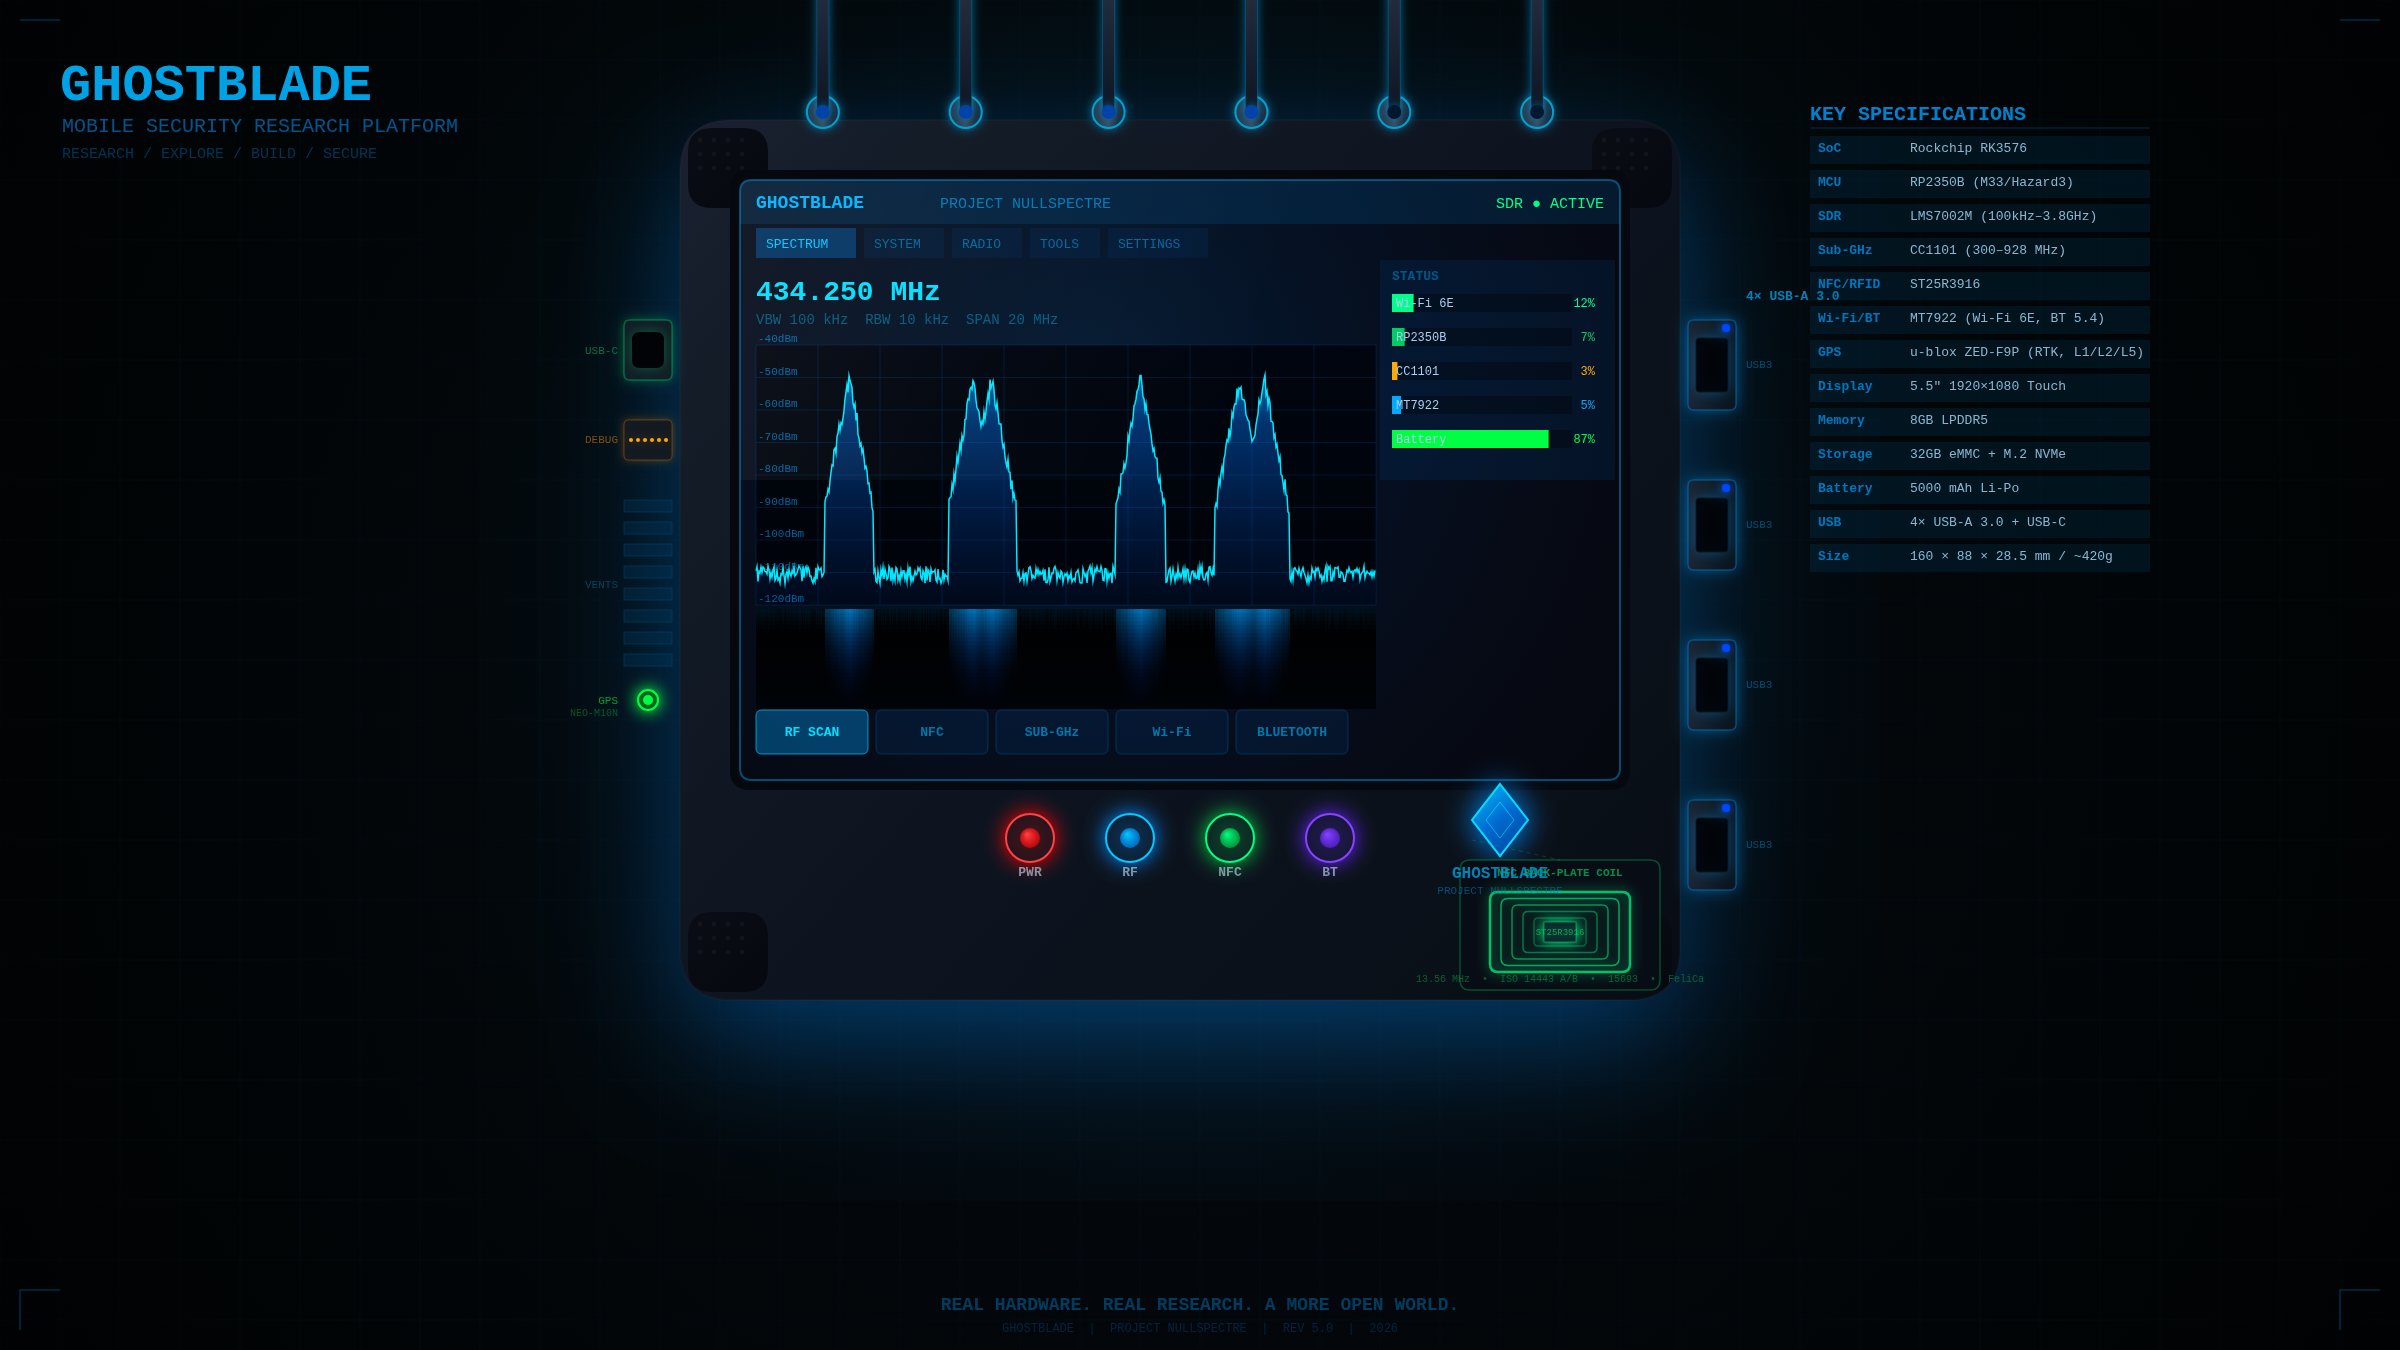
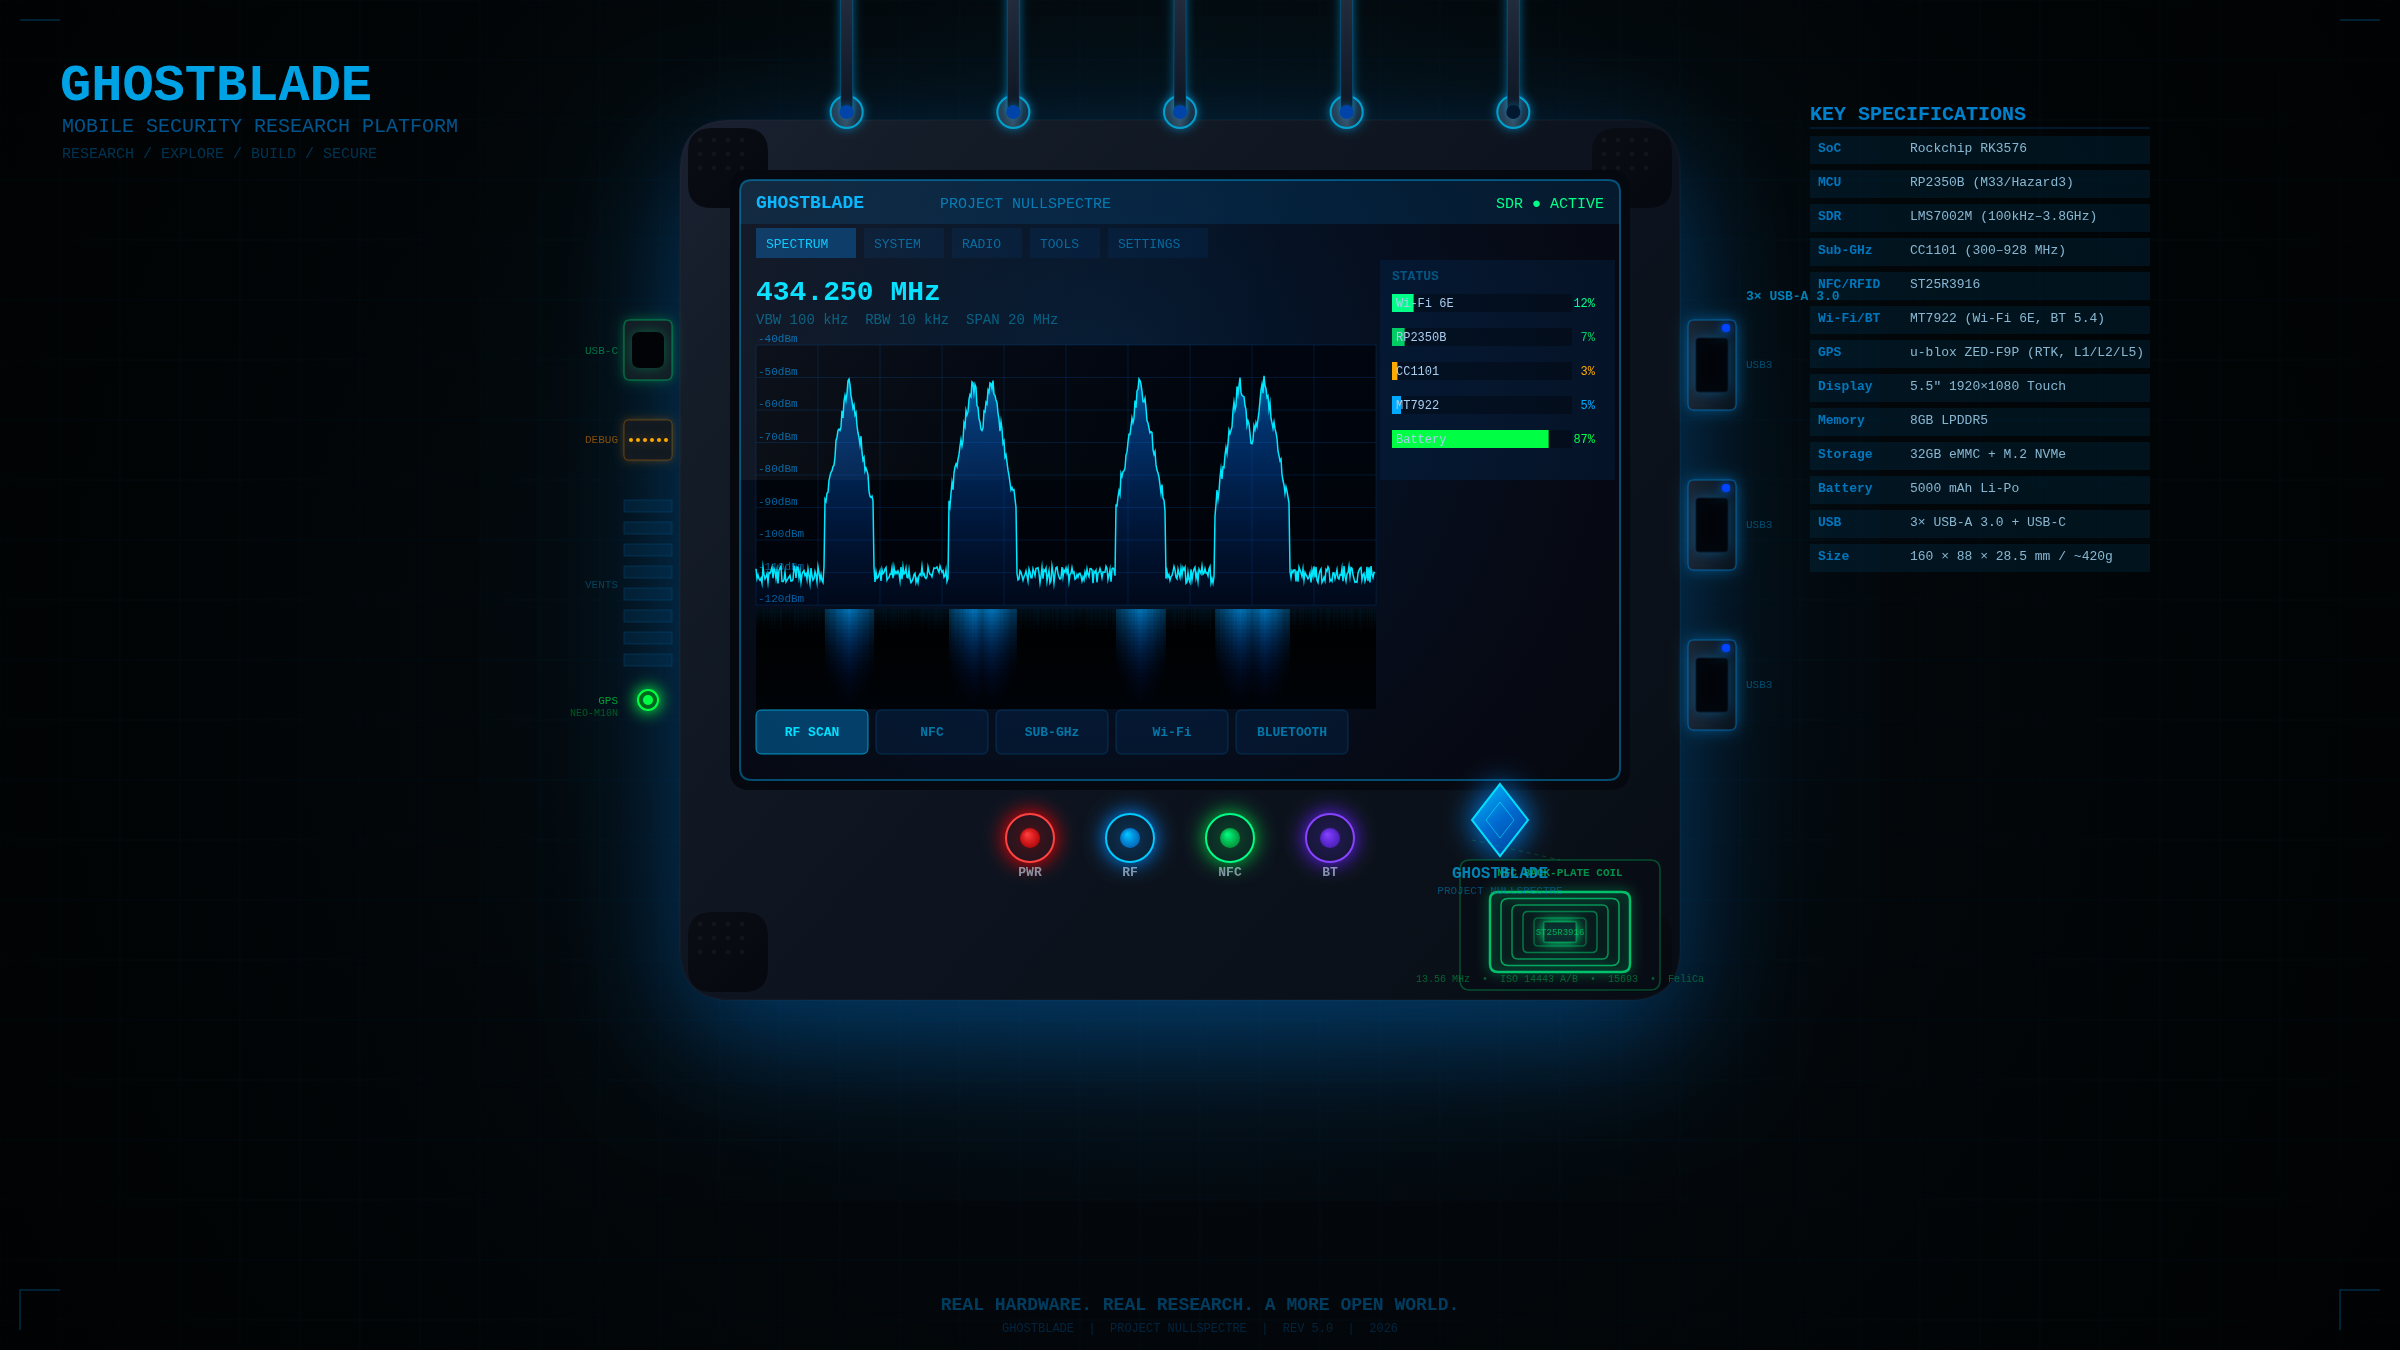
feat: 3x USB-A, full capabilities section, ChatGPT concept art spec
- Reduce USB-A from 4x to 3x throughout README and concept art
- Add 'What Can It Do?' section covering all hardware capabilities:
  SDR, Sub-GHz, NFC/RFID, Wi-Fi 6E/BT, RTK GPS, Linux host, connectivity
- Add 'Concept Art Specification' block: ready-to-paste prompt for
  ChatGPT/Midjourney/DALL-E with exact layout, ports, colors, and style
- Fix concept art: 5 SMA ports (drop AUX), 3x USB-A, updated specs panel

diff --git a/README.md b/README.md
@@ -39,9 +39,56 @@ Dual-processor (RK3576 + RP2350B) SDR-equipped handheld with Wi-Fi 6E, sub-GHz, 
 
 ## What Is This?
 
-GhostBlade is a pocket-sized penetration testing device that combines a powerful Linux SoC with a real-time coprocessor to deliver wideband SDR, sub-GHz radio, NFC, and Wi-Fi 6E — all in a form factor that fits in your hand.
+GhostBlade is a pocket-sized penetration testing and security research platform that combines a powerful Linux SoC with a real-time coprocessor to deliver wideband SDR, sub-GHz radio, NFC/RFID, Wi-Fi 6E, RTK GPS — all in a rugged handheld form factor.
 
-The RP2350B manages all RF frontends (antenna switching, SDR tuning, NFC polling) while the RK3576 runs a full Linux distribution with pentesting tools.
+The RP2350B manages all RF frontends (antenna switching, SDR tuning, NFC polling) while the RK3576 runs a full Linux distribution with pentesting tools pre-loaded.
+
+---
+
+## What Can It Do?
+
+### 📡 Software-Defined Radio (100 kHz – 3.8 GHz)
+- Full-duplex 2×2 MIMO SDR via **LMS7002M** over MIPI-CSI-2 to the RK3576
+- Spectrum analysis, signal capture, replay, and jamming research across the full RF band
+- Wideband receiver for GSM, LTE, FM/AM, ADS-B, AIS, APRS, P25, DMR, Tetra, LoRa and more
+- Transmit capability for authorized research: signal generation, replay attacks, protocol fuzzing
+- DMA ring buffer on RP2350B streams IQ blocks at 512-byte chunks to the Linux host in real time
+
+### 📻 Sub-GHz Radio (300–928 MHz)
+- **CC1101** transceiver for OOK, (G)FSK, ASK — the same chipset used in Flipper Zero
+- Capture, decode, replay, and brute-force garage openers, car key fobs, alarm sensors, TPMS
+- Raw RF packet sniffing and injection at configurable data rates and frequencies
+- Managed by the RP2350B real-time core — ultra-low latency TX/RX without Linux scheduling jitter
+
+### 🔖 NFC & RFID (13.56 MHz)
+- **ST25R3916** NFC controller — ISO 14443 A/B, ISO 15693, FeliCa, NFC-DEP (P2P)
+- Read, clone, and emulate MIFARE Classic, MIFARE Ultralight, MIFARE DESFire EV1/EV2/EV3
+- ISO 15693 vicinity card polling (HID iCLASS, LEGIC, EM4xx)
+- NFC loop coil antenna integrated into the back plate — full-device contact area
+
+### 📶 Wi-Fi 6E & Bluetooth 5.4
+- **MT7922** for 2.4 GHz / 5 GHz / 6 GHz Wi-Fi 6E 2×2 — monitor mode, packet injection, AP mode
+- WPA3, 802.11r/k/v analysis, deauthentication testing, Evil Twin / KARMA attacks
+- Bluetooth 5.4 with BLE and Classic — passive sniffing, MITM, device spoofing
+
+### 🛰 RTK GPS (L1/L2/L5)
+- **u-blox ZED-F9P** — centimeter-level RTK positioning across GPS, GLONASS, Galileo, BeiDou, NavIC
+- External SMA port for high-gain patch or helical antennas
+- Geofencing, trail logging, precision timing for SDR frequency references
+
+### 🧠 Linux Host (RK3576)
+- 4× Cortex-A72 + 4× Cortex-A53 @ up to 2.2 GHz, **6 TOPS** NPU for on-device ML inference
+- 8 GB LPDDR5 + 32 GB eMMC + M.2 NVMe slot — runs a full Debian/Kali Linux environment
+- Pre-loaded pentesting tools: GNU Radio, SoapySDR, GqRX, Aircrack-ng, Hashcat, Kismet, Wireshark, Nmap, Metasploit and more
+- `libapex` Python library exposes SDR, sub-GHz, and NFC as a clean Python API
+
+### 🔌 Connectivity
+- **3× USB-A 3.0** host ports — plug in Rubber Ducky, Wi-Fi adapters, SDR dongles, storage
+- **1× USB-C** — power delivery, OTG, debug UART
+- M.2 2230 NVMe for high-speed tool/capture storage
+- 5000 mAh Li-Po — estimated 4–6 hours active pentesting runtime
+
+---
 
 ## Current Repository State
 
@@ -331,12 +378,52 @@ ghostblade/
 | Battery | 5000 mAh Li-Po (19.25 Wh) |
 | Form Factor | 162 × 76 × 18 mm, ~320 g |
 | GPS | u-blox ZED-F9P (multi-band RTK, L1/L2/L5, cm-level, 184-ch) |
-| USB | 4× USB-A 3.0 (host) + 1× USB-C (power/OTG) |
+| USB | 3× USB-A 3.0 (host) + 1× USB-C (power/data/OTG) |
 | PCB | 6-layer FR-4 (Isola 370HR), 1.6 mm, IPC Class 3 |
 
 ---
 
-## Repository Stats
+## Concept Art Specification
+
+> **For AI image generation (ChatGPT, Midjourney, DALL·E, Stable Diffusion):**
+> Paste the block below as your prompt to generate accurate concept art.
+
+```
+GhostBlade — rugged handheld Linux pentesting device, military-grade product render.
+
+FORM FACTOR: 162mm × 76mm × 18mm, ~320g. Looks like a thicker smartphone crossed with a Flipper Zero — matte black anodized aluminum chassis with soft rubber grip zones at all four corners.
+
+FRONT FACE:
+- Large 5.5-inch 1080p touchscreen (most of the front) showing a dark SDR spectrum analyzer UI with electric cyan waveforms and status HUD
+- Four illuminated tactile buttons below screen: [SDR] [NFC] [SUB-GHz] [BT] with colored LED rings (cyan, green, amber, purple)
+- GhostBlade diamond logo (faceted gem shape) glowing electric blue — top-right corner
+- "PROJECT NULLSPECTRE" text badge below logo
+
+TOP EDGE (left to right, 5 stubby black SMA antenna ports):
+  1. SDR (LMS7002M) — wideband 100kHz–3.8GHz
+  2. SUB-G (CC1101) — 300–928MHz sub-GHz
+  3. Wi-Fi 6E (MT7922) — 2.4/5/6GHz
+  4. BT 5.4 (MT7922) — Bluetooth
+  5. GPS (ZED-F9P) — RTK L1/L2/L5 (slightly taller antenna)
+
+RIGHT SIDE (top to bottom):
+  - 3× USB-A 3.0 ports stacked vertically, each with a blue LED indicator ring
+
+LEFT SIDE (top to bottom):
+  - 1× USB-C port (power/OTG/debug)
+  - 1× 6-pin debug header (gold pins)
+  - Thermal vent slats
+  - Small green LED labeled "GPS"
+
+BACK:
+  - Large NFC loop coil antenna embedded behind the entire back plate (visible as subtle rectangular trace outline)
+  - GhostBlade diamond emblem in brushed metal center
+  - Battery cover seam at bottom third
+
+COLOR SCHEME: deep charcoal black chassis, electric cyan (#00E8FF) accent lighting, cobalt blue (#0055FF) secondary, green (#00FF88) status LEDs. Screen emits blue-cyan glow.
+
+STYLE: cinematic CGI product photography, studio hero shot from 3/4 isometric angle above-right, floating on pure black void, dramatic underlighting in cyan, sharp shadows, photorealistic anodized aluminum and rubber materials, 8K detail.
+```
 
 | Metric | Value |
 |--------|-------|
